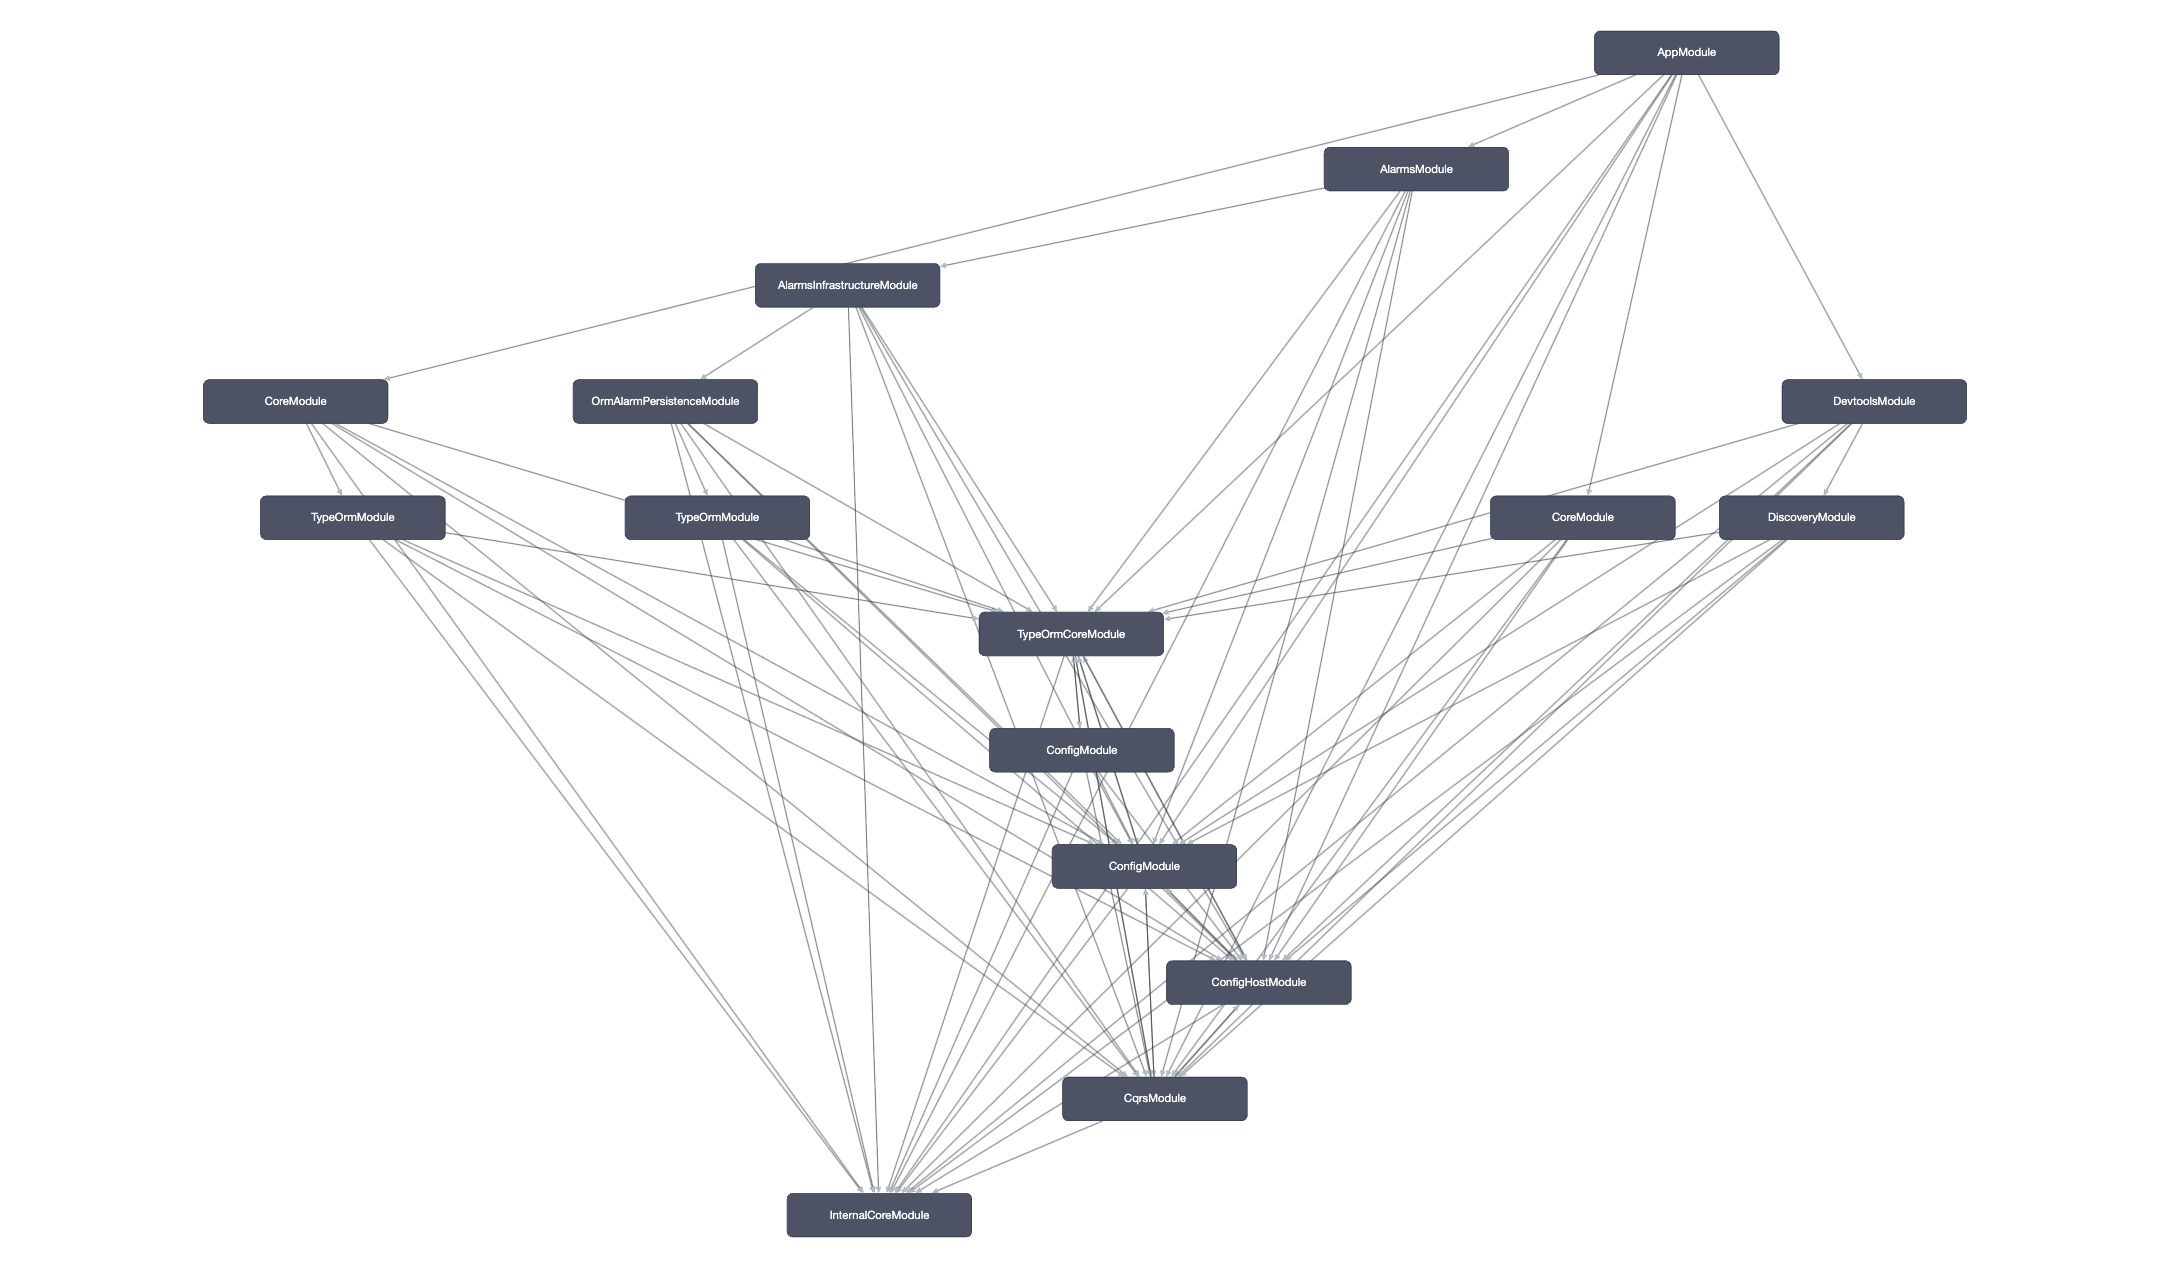
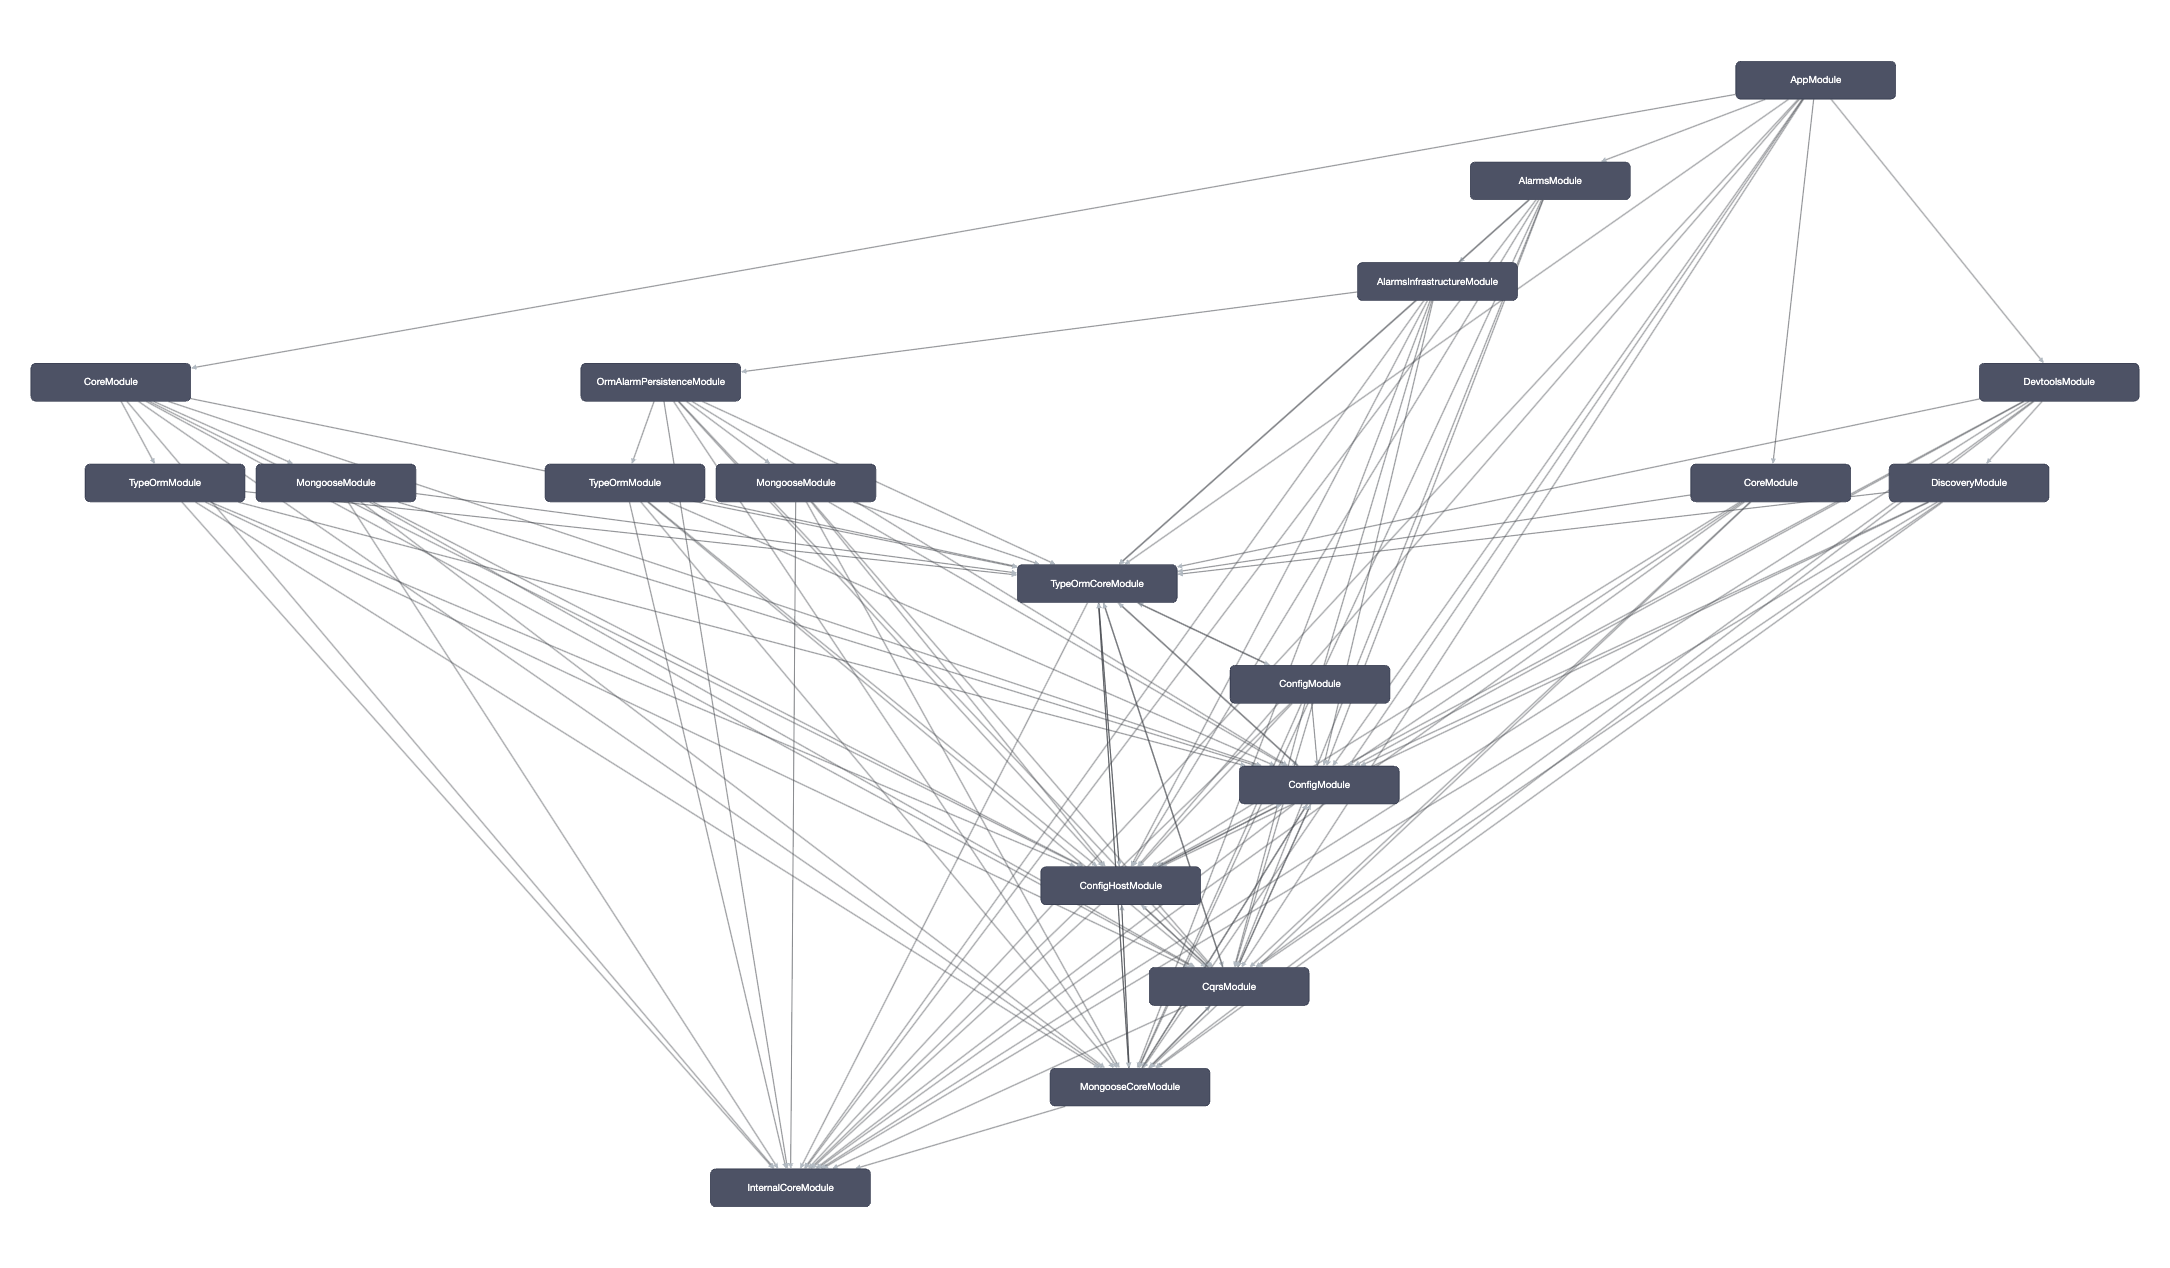
chore(): project modules graph updated

diff --git a/README.md b/README.md
@@ -25,7 +25,7 @@ Topics covered so far:
   - `curl http://localhost:3000/alarms | json_pp`
 - more to come...
 
-## Project Modules Graph
+## Project Graph [Modules]
 
 ![](public/modules_graph.png)
 
